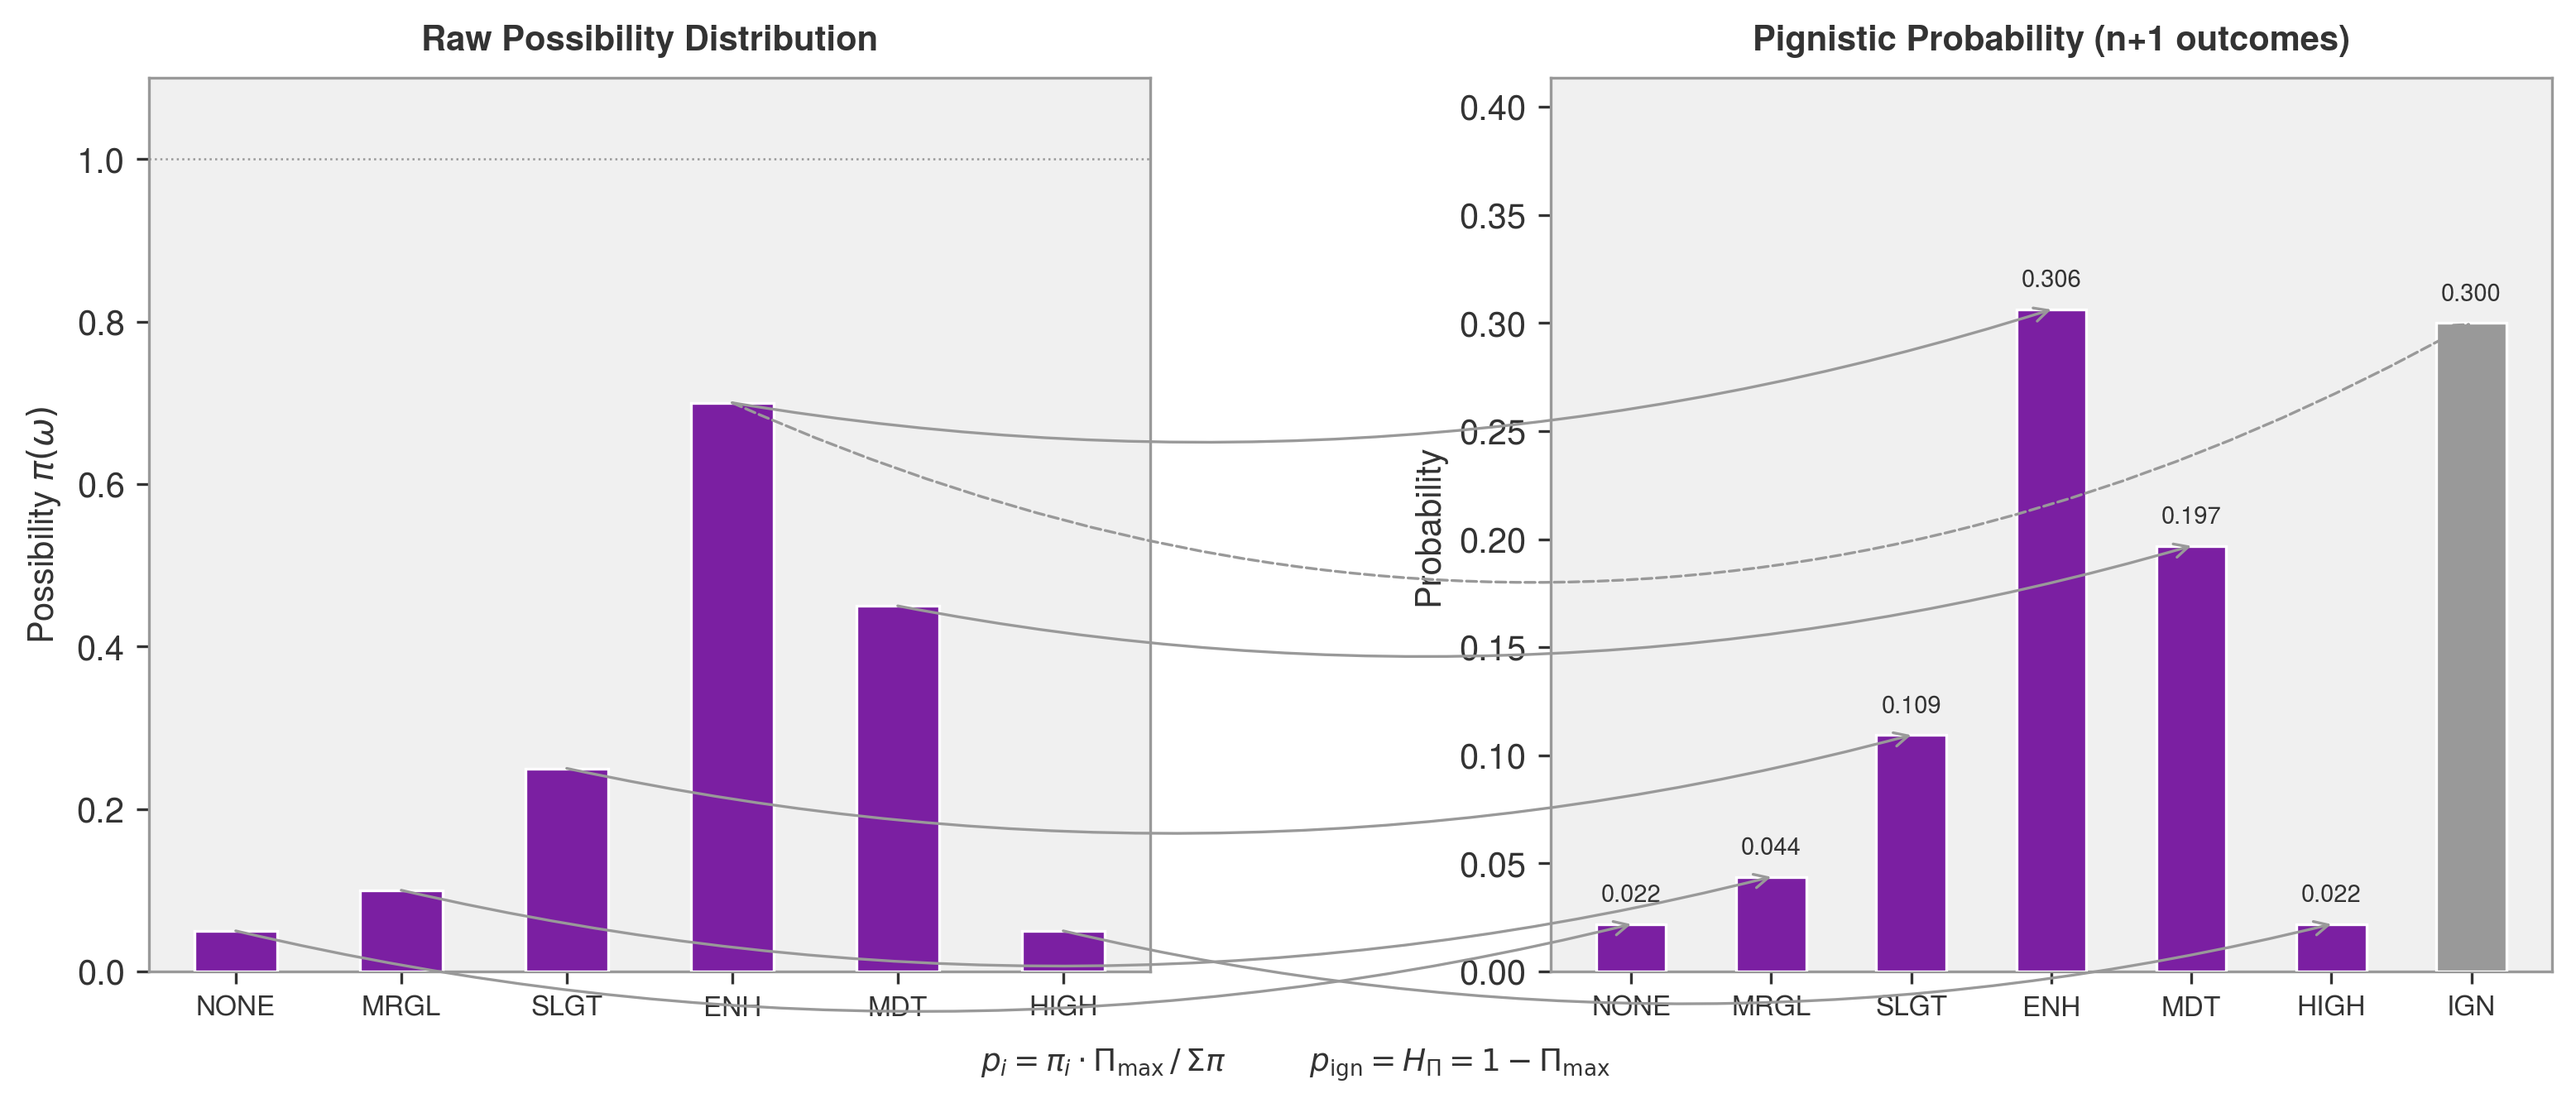
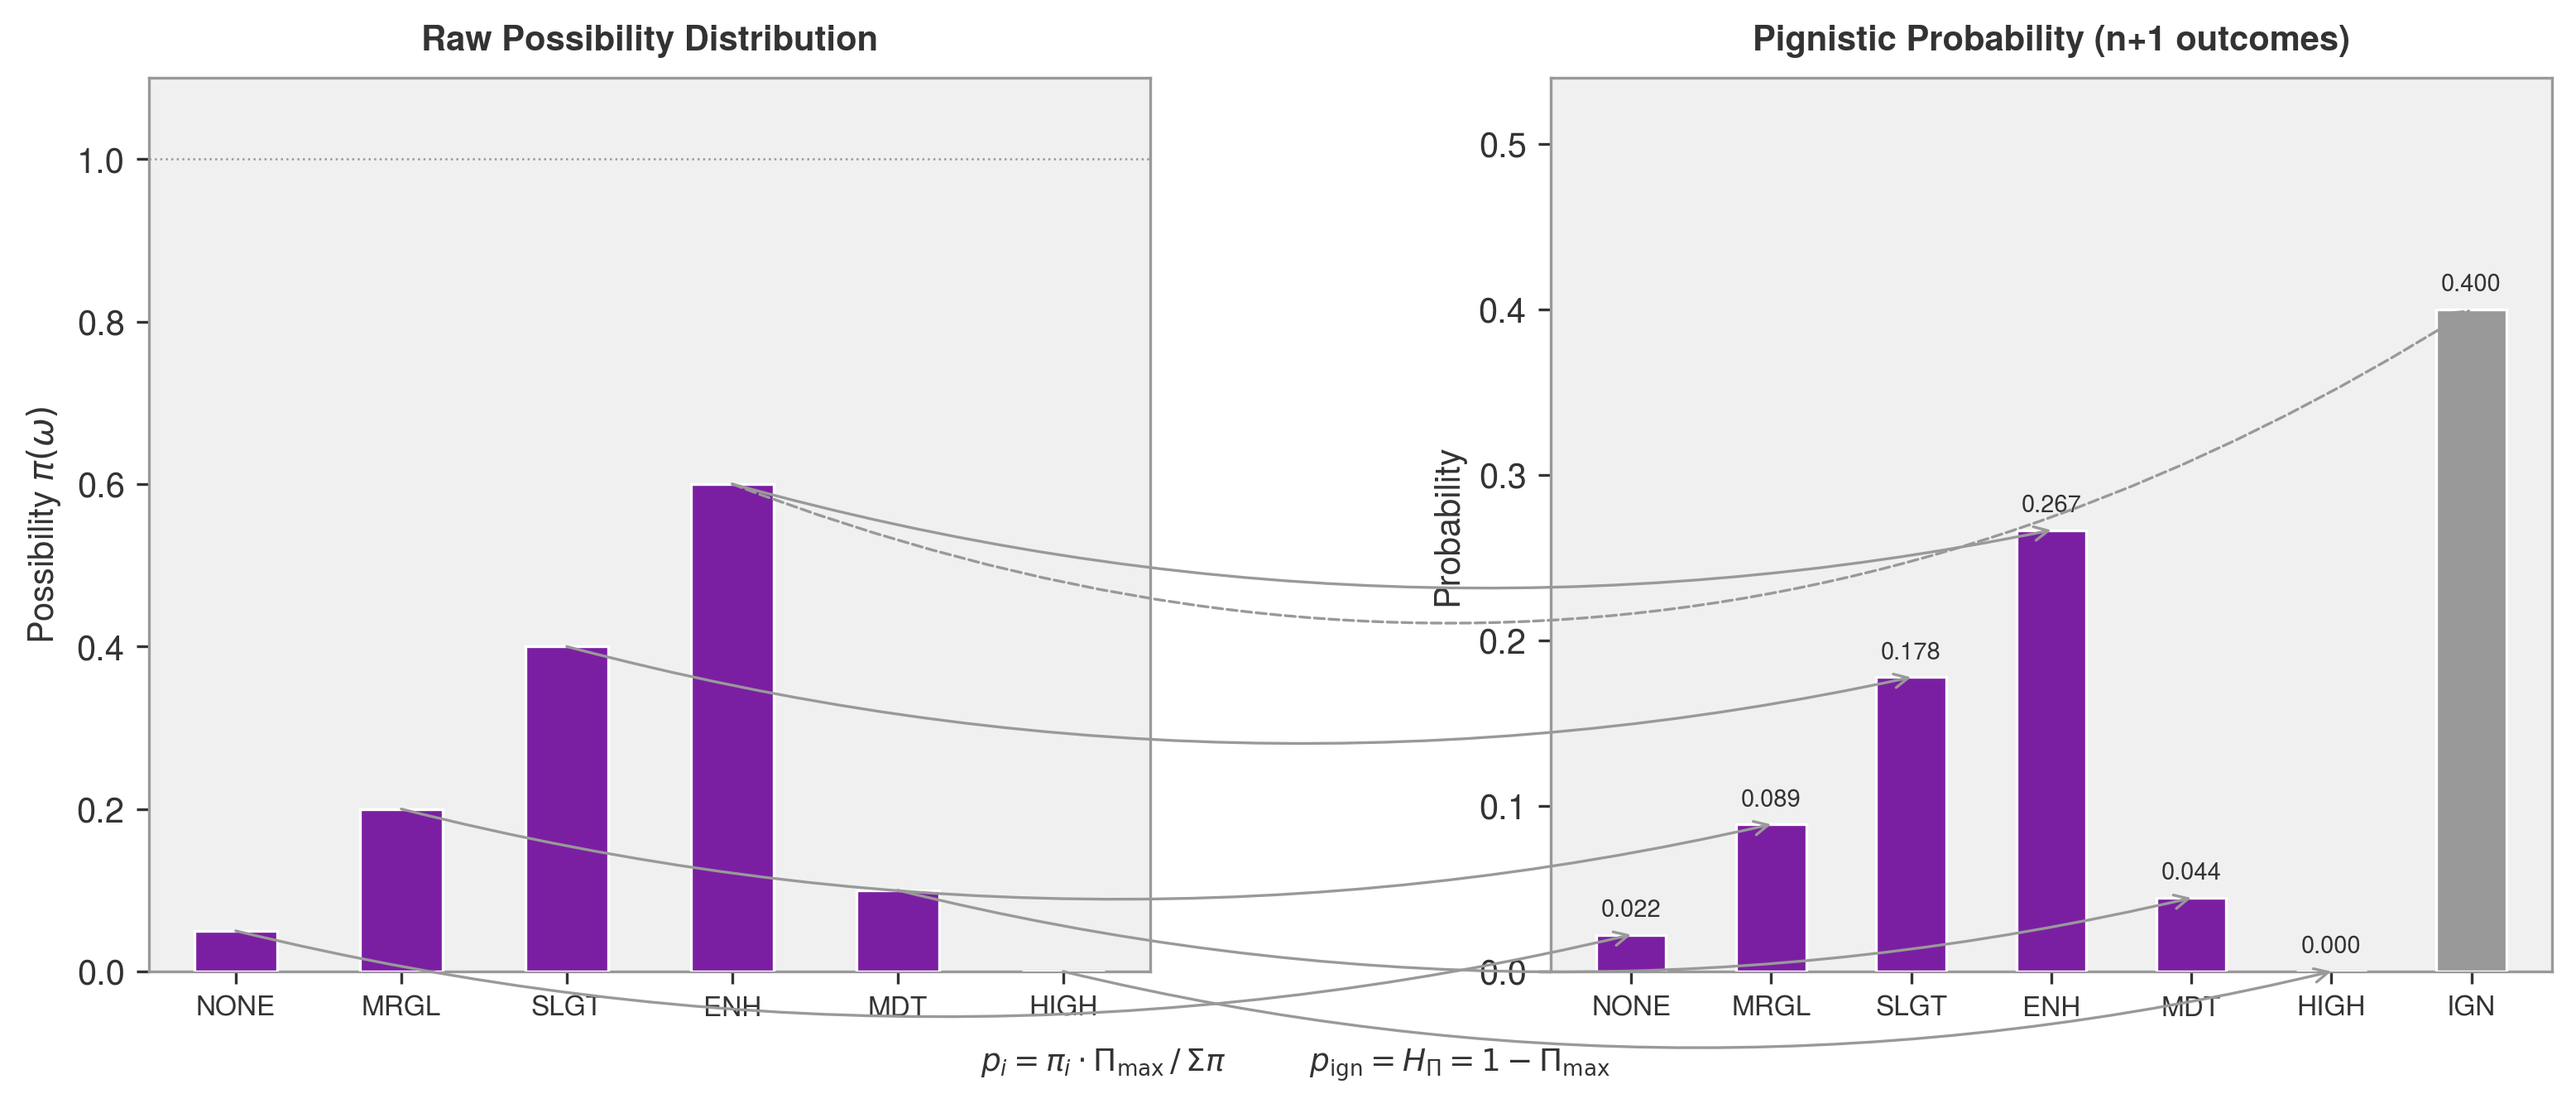
Fix bounds math (Eqs 11-12), hex aspect, pi alignment, LaTeX typo
- Rewrite bounds_from_possibility() to use possibilistic U=Pi(A_T),
  L=m*Nc(A_T) instead of bridge-derived probabilities; import canonical
  scenarios from fig_three_scenario; values now match Table 5
- Fix hex distortion: add set_aspect('equal') to v3b, replace
  plt.subplots with manual fig.add_axes in v4b to avoid tight_layout
  fighting aspect lock
- Align pi values: anatomy fig uses Example 1 (§2), bridge fig uses
  §3 worked example
- Fix §3 section title to "Possibility-to-Probability Bridge" and
  score typo 1.85→1.91 bits

diff --git a/scripts/fig_upper_lower_bounds.py b/scripts/fig_upper_lower_bounds.py
@@ -2,8 +2,9 @@
 
 For each of the three scenarios, shows the interval [L, U] on a [0, 1]
 number line for the threshold event A_T = {ENH, MDT, HIGH}.
-L and U are derived from the possibility distribution via the
-tripartite bridge.
+L and U are the possibilistic bounds from Eqs 11-12:
+  U = Pi(A_T) = max_{w in A_T} pi(w)
+  L = m * N_c(A_T) = m * [1 - max_{w not in A_T} pi'(w)]
 """
 import numpy as np
 import matplotlib.pyplot as plt
@@ -14,41 +15,40 @@ from style import (
     PURPLE, GREEN, LIGHT_GREY, DARK_GREY, MID_GREY,
     SPC_CATEGORIES, SPC_N,
 )
+from fig_three_scenario import SCENARIOS
 
-
-# Three scenarios (same as fig_three_scenario)
-SCENARIOS = {
-    "Sharp-Correct": np.array([0.00, 0.05, 0.10, 0.15, 0.90, 0.05]),
-    "Hedged-Correct": np.array([0.10, 0.30, 0.45, 0.50, 0.55, 0.10]),
-    "Sharp-Wrong":    np.array([0.85, 0.10, 0.05, 0.02, 0.01, 0.00]),
-}
 
 # Threshold event: categories at ENH or higher
 EVENT_CATS = {"ENH", "MDT", "HIGH"}
 
 
 def bounds_from_possibility(pi, event_indices):
-    """Compute [L, U] bounds for threshold event A_T.
+    """Compute possibilistic [L, U] bounds for threshold event A_T.
 
-    Using the tripartite bridge:
-      - pi_max = max(pi);  H_Pi = 1 - pi_max;  S = sum(pi)
-      - p_i = pi_i * pi_max / S   for each i
-      - p_ign = H_Pi
+    Implements Eqs 11-12:
+      U = Pi(A_T) = max_{w in A_T} pi(w)
+      L = pi_max * N_c(A_T) = pi_max * [1 - max_{w not in A_T} pi'(w)]
 
-    Then:
-      L = sum of p_i for i in A_T   (lower bound: ignorance counts against)
-      U = L + p_ign                   (upper bound: ignorance could all belong to A_T)
+    where pi' = pi / pi_max is the shape-normalised distribution.
 
     Returns (L, U).
     """
     pi = np.asarray(pi, dtype=float)
     pi_max = pi.max()
-    h_pi = 1.0 - pi_max
-    S = pi.sum()
-    p_cats = pi * pi_max / S
 
-    L = p_cats[event_indices].sum()
-    U = L + h_pi
+    # Upper bound: possibility of the event
+    U = pi[event_indices].max()
+
+    # Lower bound: commitment * conditional necessity
+    complement = np.ones(len(pi), dtype=bool)
+    complement[event_indices] = False
+    if complement.any():
+        pi_prime = pi / pi_max
+        max_complement = pi_prime[complement].max()
+    else:
+        max_complement = 0.0
+    L = pi_max * (1.0 - max_complement)
+
     return float(L), float(U)
 
 
@@ -64,9 +64,9 @@ def main():
 
     y_positions = np.arange(n)[::-1]  # top-to-bottom
 
-    for i, (label, pi) in enumerate(SCENARIOS.items()):
+    for i, (label, scenario) in enumerate(SCENARIOS.items()):
         y = y_positions[i]
-        L, U = bounds_from_possibility(pi, event_idx)
+        L, U = bounds_from_possibility(scenario['pi'], event_idx)
 
         # Full [0, 1] track
         ax.plot([0, 1], [y, y], color="#D0D0D0", linewidth=6, solid_capstyle="round",

diff --git a/scripts/fig_perf_iterate.py b/scripts/fig_perf_iterate.py
@@ -287,6 +287,7 @@ def v3b(data, ap, spec, anchors):
 
     ax.set_xlim(-0.02, 1.04)
     ax.set_ylim(-0.02, 1.04)
+    ax.set_aspect('equal')
 
     draw_hyperbolas(ax)
     draw_delta0_diag(ax)
@@ -354,9 +355,10 @@ def v3b(data, ap, spec, anchors):
 
 def v4b(data, ap, spec, anchors):
     """V4b: commitment-discrimination + trajectory (all days)."""
+    from style import FIG_DIR, FIG_FORMAT, DPI
     from matplotlib.colors import LogNorm
+    import os
 
-    fig, ax = plt.subplots(figsize=(5.8, 7.0))
     cm = count_cmap()
     gcm = hpi_green_cmap()
     gnm = Normalize(0.0, 0.55)
@@ -364,6 +366,17 @@ def v4b(data, ap, spec, anchors):
 
     pi_max = 1.0 - data['H_Pi']
     delta = data['delta']
+
+    # Manual axes sizing: x_range = 1.04, y_range = 1.30
+    # Axes height = 3.0 * (1.30 / 1.04) = 3.75 inches
+    ax_w, ax_h = 3.0, 3.0 * (1.30 / 1.04)
+    fig = plt.figure(figsize=(4.1, ax_h + 0.9))
+    ax = fig.add_axes([0.17, 0.11, ax_w / 4.1, ax_h / (ax_h + 0.9)])
+    cax = fig.add_axes([0.91, 0.30, 0.025, 0.35])
+
+    ax.set_xlim(-0.02, 1.02)
+    ax.set_ylim(-0.45, 0.85)
+    ax.set_aspect('equal')
 
     hb = ax.hexbin(pi_max, delta, gridsize=12, cmap=cm,
                    edgecolors="white", linewidths=0.4, mincnt=1, zorder=2)
@@ -382,21 +395,27 @@ def v4b(data, ap, spec, anchors):
     draw_anchors_commit(ax, anchors)
     draw_compass(ax, 0.95, 0.72, "better")
 
-    cb = fig.colorbar(hb, ax=ax, shrink=0.55, pad=0.02)
+    # Manual colorbar
+    from matplotlib.colorbar import ColorbarBase
+    cb = plt.colorbar(hb, cax=cax)
     cb.set_label("Count per bin (log scale)", fontsize=8)
     cb.ax.tick_params(labelsize=7)
 
-    ax.set_xlim(-0.02, 1.02)
-    ax.set_ylim(-0.45, 0.85)
-    ax.set_aspect('equal', adjustable='box')
     ax.set_xlabel(
         r"Commitment  $\pi_{\max} = 1 - H_\Pi$"
         r"  (more committed $\rightarrow$)", fontsize=9)
     ax.set_ylabel(
         r"Discrimination  $\delta = \alpha^* - \eta$"
         r"  ($\rightarrow$ better)", fontsize=9)
-    fig.tight_layout()
-    save_fig(fig, "commitment_diagram")
+
+    # Save WITHOUT bbox_inches='tight' to preserve aspect ratio
+    path = os.path.join(FIG_DIR, f"commitment_diagram.{FIG_FORMAT}")
+    os.makedirs(FIG_DIR, exist_ok=True)
+    with plt.rc_context({'savefig.bbox': 'standard'}):
+        fig.savefig(path, facecolor="white", transparent=False,
+                    dpi=DPI, pad_inches=0)
+    plt.close(fig)
+    print(f"Saved: {path}")
 
 
 # ------------------------------------------------------------------ #

diff --git a/sections/04-pignistic-bridge.tex b/sections/04-pignistic-bridge.tex
@@ -6,7 +6,7 @@
 % Ozone categories → SPC categories
 %----------------------------------------------------------
 
-\section{Pignistic Bridge}\label{sec:pignistic_bridge}
+\section{Possibility-to-Probability Bridge}\label{sec:pignistic_bridge}
 
 The term \textit{pignistic} derives from the Latin \textit{pignus} (a
 wager): it denotes the probabilities one would assign if forced to bet.
@@ -71,7 +71,7 @@ $\pi = (0.05,\; 0.2,\; 0.4,\; 0.6,\; 0.1,\; 0.0)$.
 
 High \ign{} ($0.4$) correctly inflated the ignorance outcome, reducing
 $p(\spc{ENH})$ from what simple normalization would give
-($0.6/1.35 = 0.444$) to $0.267$.  The verification score ($1.85$~bits)
+($0.6/1.35 = 0.444$) to $0.267$.  The verification score ($1.91$~bits)
 honestly reflects the system's partial uncertainty.
 Figure~\ref{fig:pignistic_bridge} visualizes this transformation.
 

diff --git a/scripts/fig_possibility_anatomy.py b/scripts/fig_possibility_anatomy.py
@@ -20,7 +20,7 @@ def main():
     apply_style()
 
     # Subnormal possibility distribution
-    pi = np.array([0.05, 0.10, 0.25, 0.70, 0.45, 0.05])
+    pi = np.array([0.05, 0.00, 0.10, 0.20, 0.75, 0.15])
     pi_max = pi.max()
     peak_idx = int(np.argmax(pi))
     h_pi = 1.0 - pi_max

diff --git a/scripts/fig_pignistic_bridge.py b/scripts/fig_pignistic_bridge.py
@@ -44,7 +44,7 @@ def tripartite_bridge(pi):
 def main():
     apply_style()
 
-    pi = np.array([0.05, 0.10, 0.25, 0.70, 0.45, 0.05])
+    pi = np.array([0.05, 0.20, 0.40, 0.60, 0.10, 0.00])
     p_cats, p_ign = tripartite_bridge(pi)
 
     # Verify the probability sums to 1
